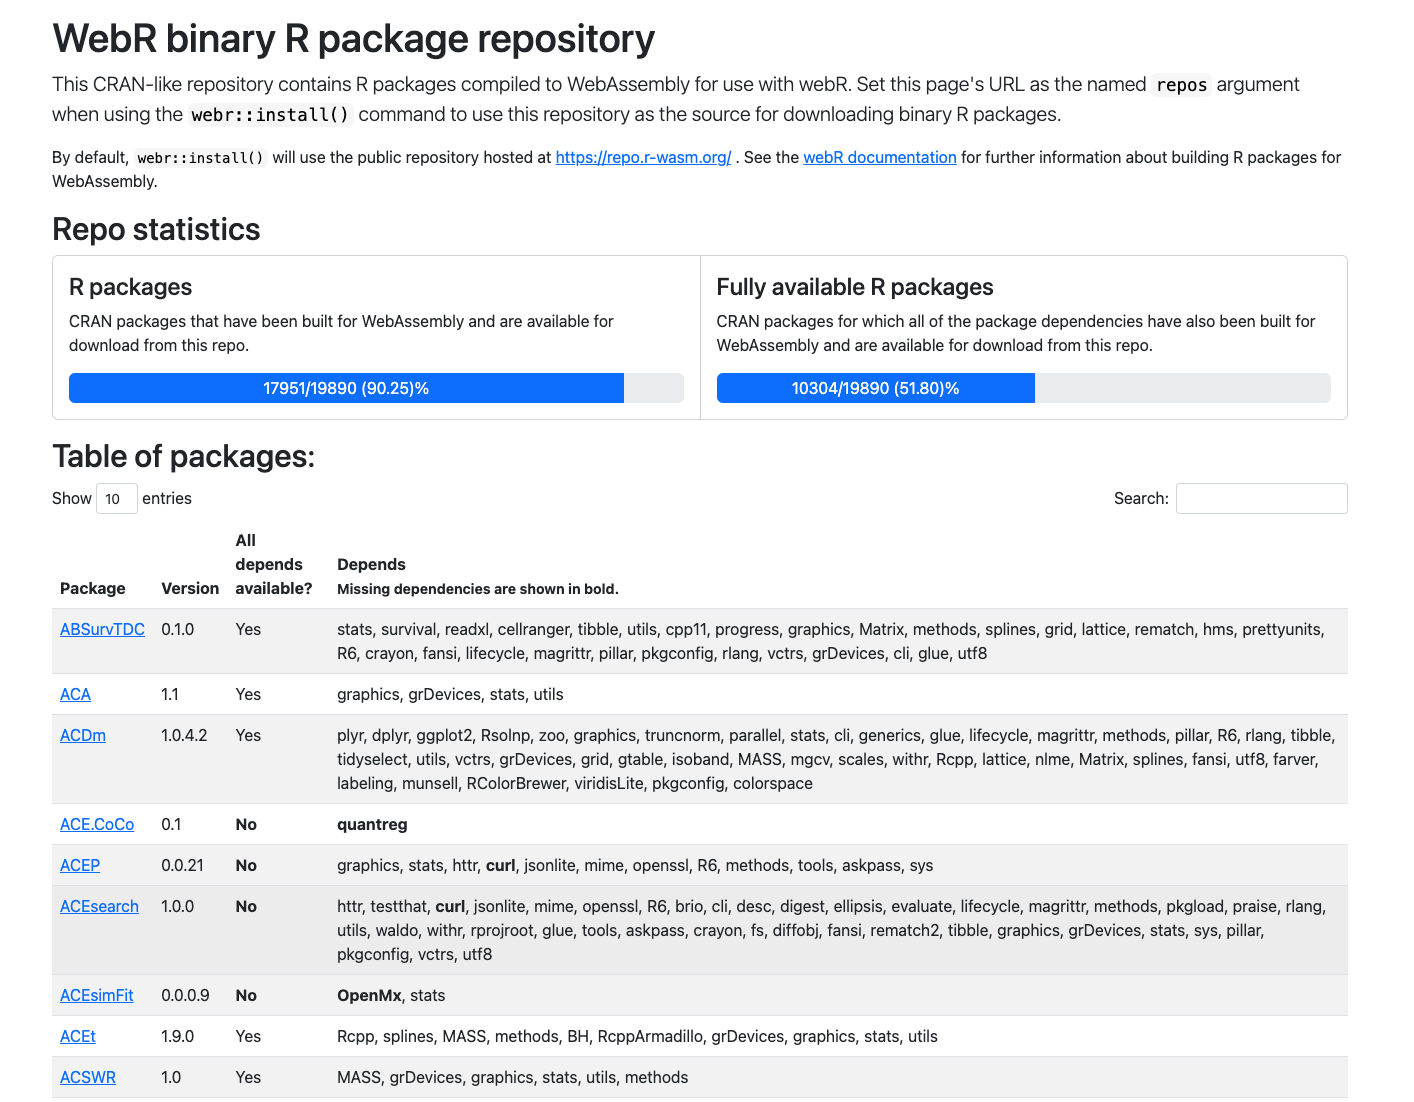
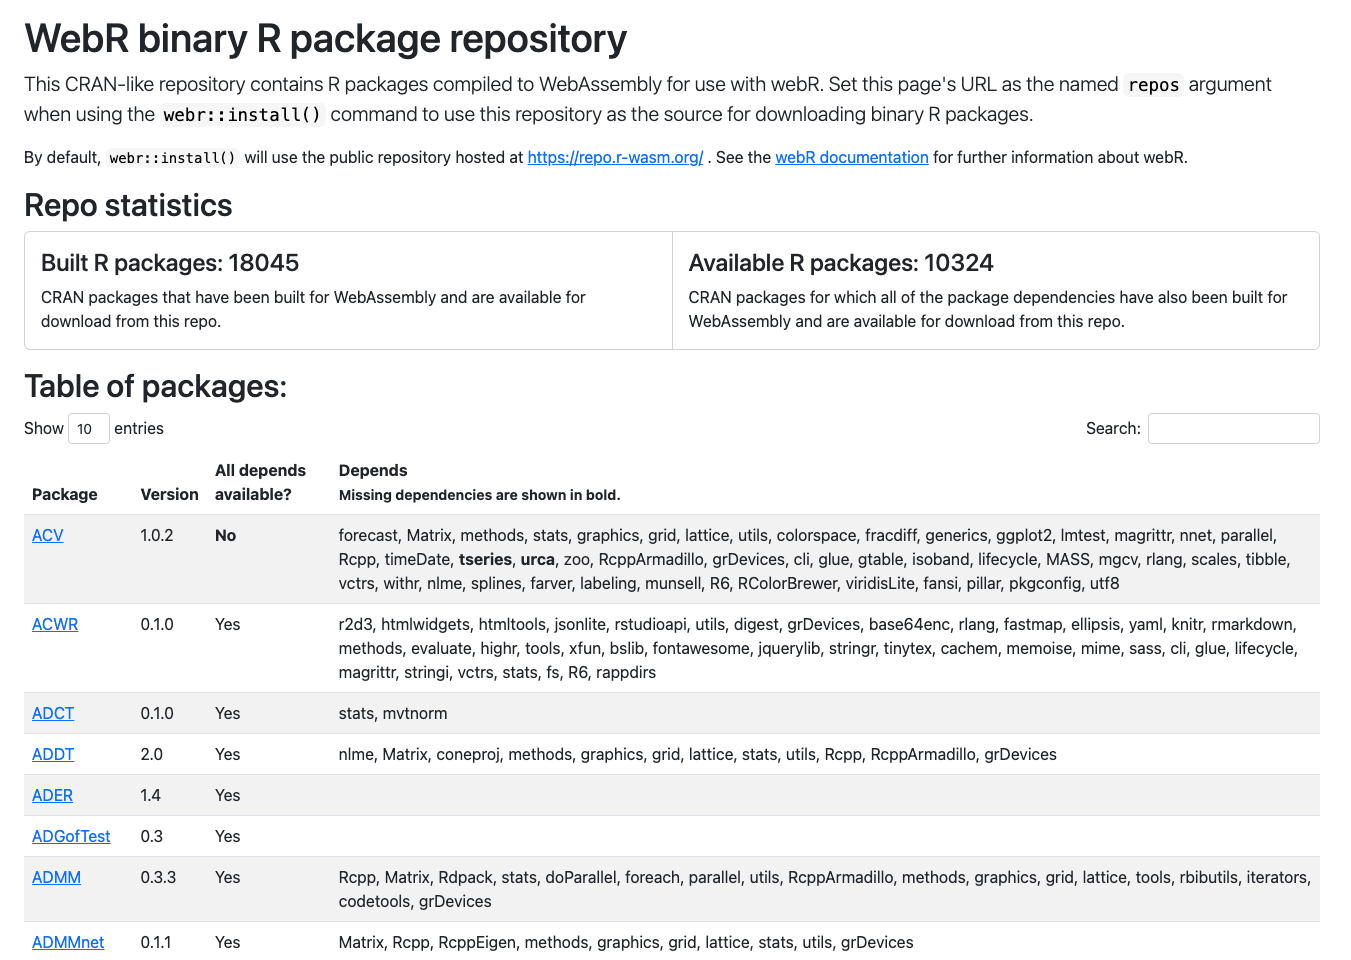
Final repo updates for webr 0.2.0 post

diff --git a/content/blog/webr-0-2-0/index.md b/content/blog/webr-0-2-0/index.md
@@ -15,7 +15,7 @@ photo:
 # one of: "deep-dive", "learn", "package", "programming", "roundup", or "other"
 categories: [deep-dive]
 tags: [webr, webassembly, wasm]
-rmd_hash: 6846d43fc0f788d3
+rmd_hash: 7acc5b18981c3f5e
 
 ---
 
@@ -297,7 +297,7 @@ Many R packages require linking with system libraries to build and run. When bui
 
 To expand support for R packages, webR 0.2.0 ships with [additional recipes](https://github.com/r-wasm/webr/tree/main/libs/recipes) to build system libraries from source for Wasm. The libraries consist of a selection of utility, database, graphics, text rendering, geometry, and geospatial support packages, with specific libraries chosen for their possibility to be compiled for Wasm as well as the number of R packages relying on them. I expect that the number of system libraries supported will continue to grow over time as we attempt to build more R packages for Wasm.
 
-As of webR 0.1.1, **219** packages were available to install through our public Wasm R package repo. With the release of webR 0.2.0 and its additional system libraries, the number of available packages is now **10304** (approximately 51% of CRAN packages). Though, it should be noted that these packages have not been tested in detail. Here, "available" just means that the Emscripten compiler successfully built the R package for Wasm, along with its prerequisite packages.
+As of webR 0.1.1, **219** packages were available to install through our public Wasm R package repo. With the release of webR 0.2.0 and its additional system libraries, the number of available packages is now **10324** (approximately 51% of CRAN packages). Though, it should be noted that these packages have not been tested in detail. Here, "available" just means that the Emscripten compiler successfully built the R package for Wasm, along with its prerequisite packages.
 
 ### Public Wasm R packages dashboard
 
